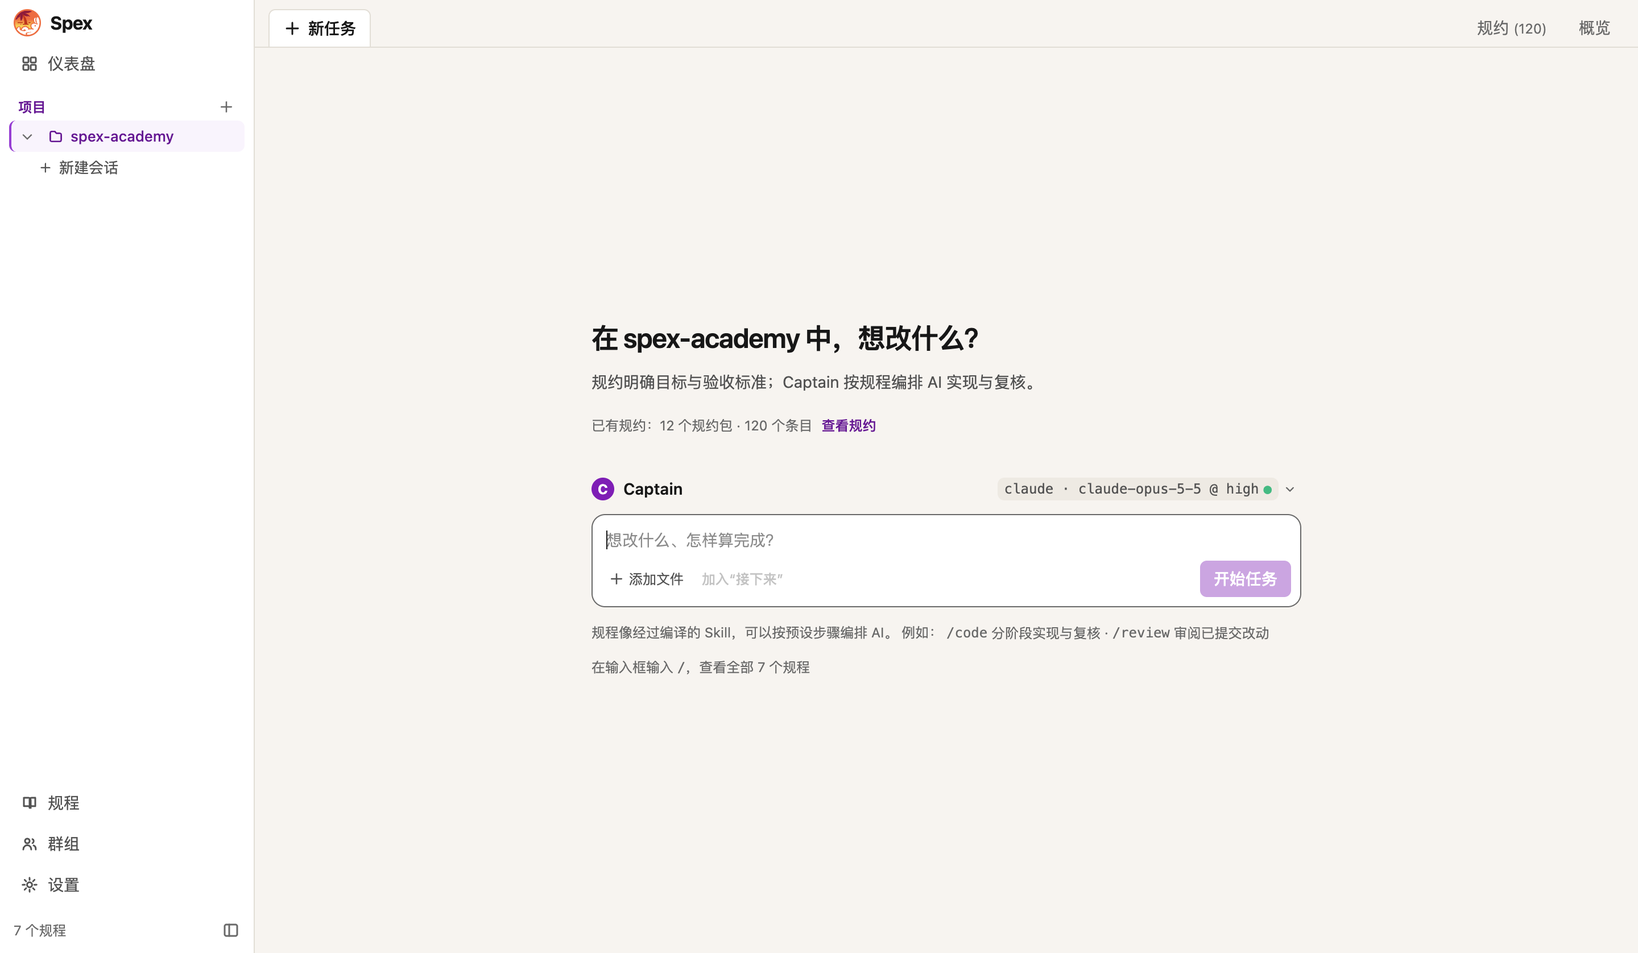
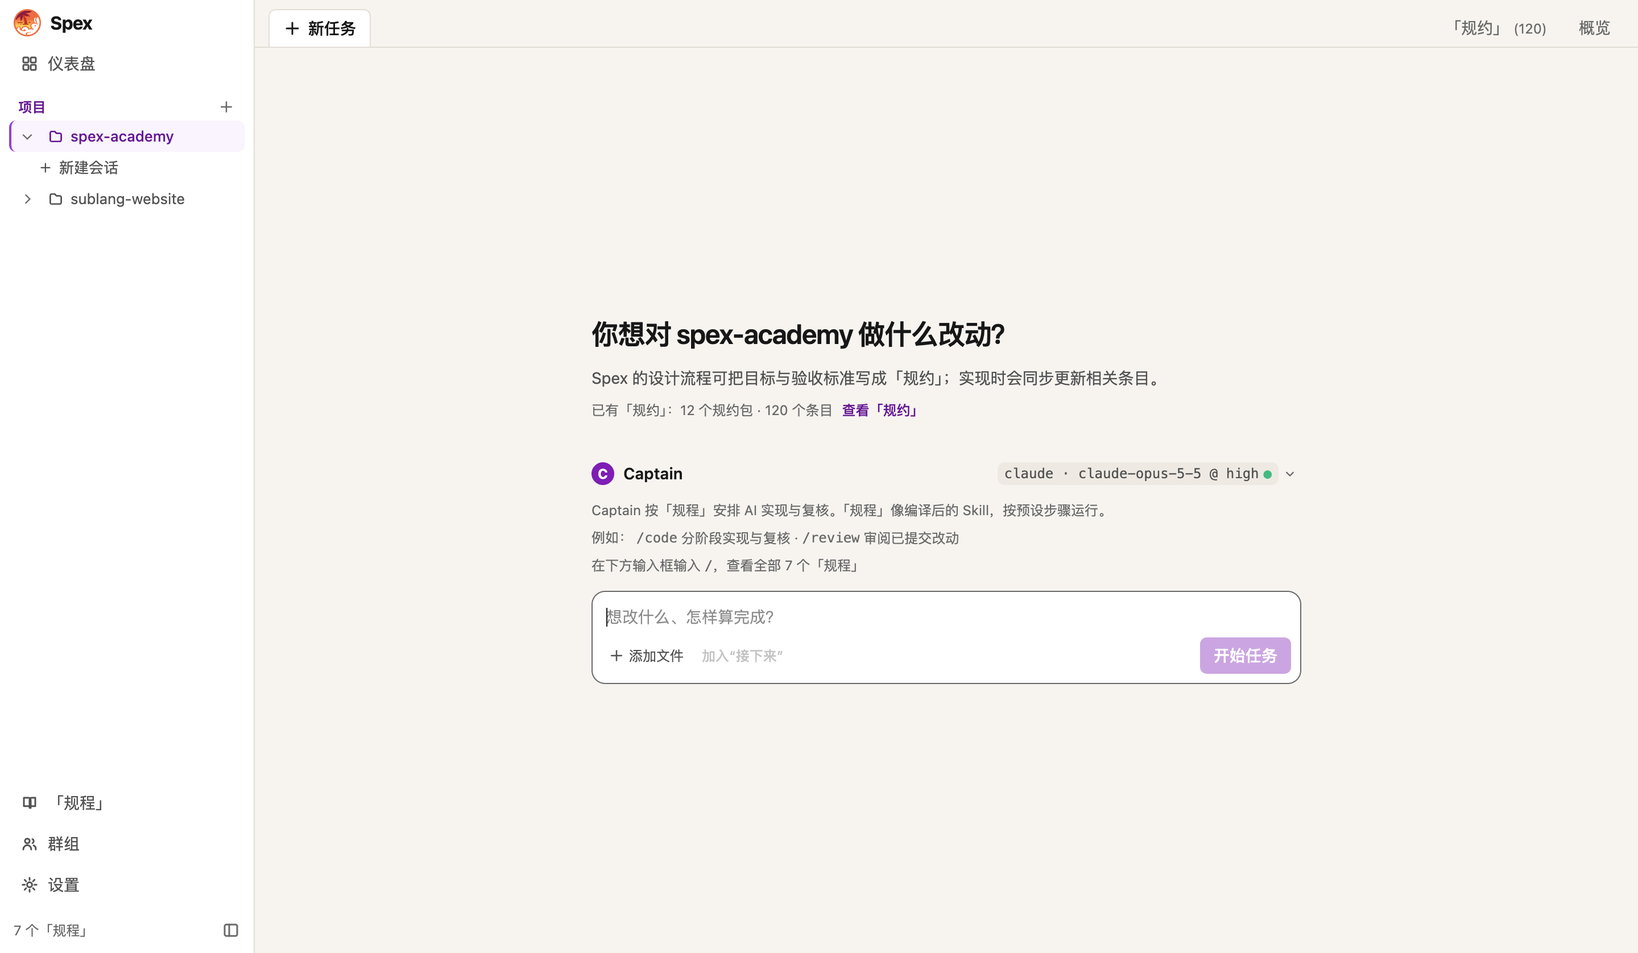
Clarify project start specs and playbook guidance

diff --git a/packages/ui/src/components/CaptainHome.tsx b/packages/ui/src/components/CaptainHome.tsx
@@ -283,7 +283,7 @@ export function CaptainHome(props: CaptainHomeProps) {
             <li className="relative pb-3 pl-5">
               <span aria-hidden="true" className="absolute -left-[5px] top-2 size-2 rounded-full bg-neutral-400 dark:bg-neutral-500" />
               <span className="font-semibold text-neutral-800 dark:text-neutral-100">{i18n._("Playbooks")}</span>
-              <span className="ml-3 text-neutral-600 dark:text-neutral-300">{i18n._("Compile natural-language playbooks into executable workflows")}</span>
+              <span className="ml-3 text-neutral-600 dark:text-neutral-300">{i18n._("Compile natural-language steps into executable workflows")}</span>
             </li>
             <li className="relative pl-5">
               <span aria-hidden="true" className="absolute -left-[5px] top-2 size-2 rounded-full bg-neutral-400 dark:bg-neutral-500" />
@@ -364,15 +364,15 @@ export function CaptainHome(props: CaptainHomeProps) {
         {props.hasProject ? (
           <div data-testid="project-task-start" className="w-full">
             <h1 className="text-2xl font-semibold leading-tight tracking-tight text-neutral-900 dark:text-neutral-100">
-              {i18n._("What would you change in {project}?", {
+              {i18n._("What would you like to change in {project}?", {
                 project: props.projectName ?? i18n._("your project"),
               })}
             </h1>
             <p className="mt-3 text-sm leading-6 text-neutral-600 dark:text-neutral-300">
-              {i18n._("Specs clarify goals and acceptance criteria; Captain uses playbooks to coordinate AI implementation and review.")}
+              {i18n._("Spex's design workflow can write goals and acceptance criteria into specs; implementation updates affected spec items.")}
             </p>
             {props.onOpenSpecs ? (
-              <div data-testid="project-spec-status" className="mt-4 flex flex-wrap items-center gap-x-2 gap-y-1 text-xs leading-5 text-neutral-500 dark:text-neutral-400">
+              <div data-testid="project-spec-status" className="mt-1.5 flex flex-wrap items-center gap-x-2 gap-y-1 text-xs leading-5 text-neutral-500 dark:text-neutral-400">
                 <span>
                   {specState === "ready" && specCounts
                     ? i18n._("Existing specs: {packages, plural, one {# package} other {# packages}} · {items, plural, one {# item} other {# items}}", { packages: specCounts.packages, items: specCounts.items })
@@ -565,9 +565,45 @@ export function CaptainHome(props: CaptainHomeProps) {
           </span>
         </div>
 
+        {props.hasProject ? (
+          <div className="text-xs leading-5 text-neutral-500 dark:text-neutral-400">
+            {!configBroken && playbooks.length > 0 ? (
+              <p>{i18n._("Captain uses playbooks to coordinate AI implementation and review. Playbooks are like compiled Skills that run through defined steps.")}</p>
+            ) : null}
+            {!configBroken && !props.next && previewPlaybooks.length > 0 ? (
+              <div data-testid="playbook-preview" className="mt-1">
+                <p>
+                  {i18n._("For example:")}{" "}
+                  {previewPlaybooks.map((playbook, index) => (
+                    <span key={playbook.id}>
+                      {index > 0 ? " · " : null}
+                      <code className="font-mono">/{playbook.command}</code>{" "}
+                      <span className="inline-block max-w-44 truncate align-bottom" title={playbookIntent(playbook.intent)}>{previewIntent(playbook)}</span>
+                    </span>
+                  ))}
+                </p>
+              </div>
+            ) : null}
+            <div className="mt-1 min-h-5">
+              {playbooks.length > 0 ? (
+                <span id="start-playbook-hint">
+                  <Rich
+                    text={i18n._("Type <0>/</0> in the task box below to see all {count} playbooks", { count: playbooks.length })}
+                    components={[<code key="slash" className="font-mono" />]}
+                  />
+                </span>
+              ) : (
+                <button type="button" onClick={() => props.onNavigate("Playbooks")} className="font-medium text-brand-700 hover:underline dark:text-brand-300">
+                  {i18n._("No playbooks available — open Playbooks")}
+                </button>
+              )}
+            </div>
+          </div>
+        ) : null}
+
         {props.hasProject ? <label htmlFor="start-composer" className="sr-only">{i18n._("Describe a project task")}</label> : null}
 
-        <div className="relative">
+        <div className={props.hasProject ? "relative mt-1" : "relative"}>
           {slash ? (
             <SlashMenuList
               items={slash}
@@ -714,37 +750,6 @@ export function CaptainHome(props: CaptainHomeProps) {
             }
           />
         </div>
-        {props.hasProject && !configBroken && !props.next && previewPlaybooks.length > 0 ? (
-          <div data-testid="playbook-preview" className="mt-1 text-xs leading-5 text-neutral-500 dark:text-neutral-400">
-            <p>
-              {i18n._("A playbook is like a Skill compiled into an executable workflow: it coordinates AI through predefined steps.")}{" "}
-              {i18n._("For example:")}{" "}
-              {previewPlaybooks.map((playbook, index) => (
-                <span key={playbook.id}>
-                  {index > 0 ? " · " : null}
-                  <code className="font-mono">/{playbook.command}</code>{" "}
-                  <span className="inline-block max-w-44 truncate align-bottom" title={playbookIntent(playbook.intent)}>{previewIntent(playbook)}</span>
-                </span>
-              ))}
-            </p>
-          </div>
-        ) : null}
-        {props.hasProject ? (
-          <div className="mt-1 min-h-5 text-xs text-neutral-500 dark:text-neutral-400">
-            {playbooks.length > 0 ? (
-              <span id="start-playbook-hint">
-                <Rich
-                  text={i18n._("Type <0>/</0> in the task box to see all {count} playbooks", { count: playbooks.length })}
-                  components={[<code key="slash" className="font-mono" />]}
-                />
-              </span>
-            ) : (
-              <button type="button" onClick={() => props.onNavigate("Playbooks")} className="font-medium text-brand-700 hover:underline dark:text-brand-300">
-                {i18n._("No playbooks available — open Playbooks")}
-              </button>
-            )}
-          </div>
-        ) : null}
       </div>
     </div>
   );

diff --git a/packages/ui/src/components/captain-home.test.tsx b/packages/ui/src/components/captain-home.test.tsx
@@ -144,7 +144,7 @@ function renderHome({
 describe("RUN-29: captain home structure and one-motion start", () => {
   test("project task framing, composer, and Captain role render", () => {
     renderHome();
-    expect(screen.getByText("What would you change in demo?")).toBeTruthy();
+    expect(screen.getByText("What would you like to change in demo?")).toBeTruthy();
     expect(screen.getByTestId("start-composer")).toBeTruthy();
     const chip = screen.getByTestId("agent-chip");
     expect(chip.textContent).toContain("claude · claude-opus-4-8 @ high");
@@ -182,7 +182,7 @@ describe("RUN-29: captain home structure and one-motion start", () => {
     expect(screen.getByText("Specs")).toBeTruthy();
     expect(screen.getByText("Define goals and acceptance criteria")).toBeTruthy();
     expect(screen.getByText("Playbooks")).toBeTruthy();
-    expect(screen.getByText("Compile natural-language playbooks into executable workflows")).toBeTruthy();
+    expect(screen.getByText("Compile natural-language steps into executable workflows")).toBeTruthy();
     expect(screen.getByText("Delivery")).toBeTruthy();
     expect(screen.getByText("Coordinate AI implementation and review, with traceable changes")).toBeTruthy();
     const primary = screen.getByTestId("home-add-project");
@@ -201,11 +201,12 @@ describe("RUN-29: captain home structure and one-motion start", () => {
 
   test("task scope and slash discovery sit outside the input", () => {
     renderHome();
-    expect(screen.getByText(/Specs clarify goals and acceptance criteria/)).toBeTruthy();
+    expect(screen.getByText(/design workflow can write goals and acceptance criteria into specs/)).toBeTruthy();
+    expect(screen.getByText(/Captain uses playbooks to coordinate AI implementation and review/)).toBeTruthy();
     const hint = document.getElementById("start-playbook-hint")!;
-    expect(hint.textContent).toBe("Type / in the task box to see all 2 playbooks");
+    expect(hint.textContent).toBe("Type / in the task box below to see all 2 playbooks");
     expect(hint.querySelector("code")?.textContent).toBe("/");
-    expect(hint.compareDocumentPosition(screen.getByTestId("composer-box")) & Node.DOCUMENT_POSITION_PRECEDING).toBeTruthy();
+    expect(hint.compareDocumentPosition(screen.getByTestId("composer-box")) & Node.DOCUMENT_POSITION_FOLLOWING).toBeTruthy();
     const field = screen.getByLabelText("Describe a project task");
     expect(field).toBe(screen.getByTestId("start-composer"));
     expect(field.getAttribute("aria-describedby")).toBe("start-playbook-hint");
@@ -230,14 +231,14 @@ describe("RUN-29: captain home structure and one-motion start", () => {
       { ...PLAYBOOKS[0], intent: "implement a coding intent in reviewed, one-commit phases, using an intent record when needed" },
     ] });
     const preview = screen.getByTestId("playbook-preview");
-    expect(preview.textContent).toContain("like a Skill compiled into an executable workflow");
+    expect(screen.getByText(/Playbooks are like compiled Skills that run through defined steps/)).toBeTruthy();
     expect(preview.textContent).toContain("/code");
     expect(preview.textContent).toContain("/review");
     expect(preview.textContent).not.toContain("/inspect");
     expect(preview.querySelectorAll("p")).toHaveLength(1);
     expect(preview.querySelectorAll("button")).toHaveLength(0);
     const hint = document.getElementById("start-playbook-hint")!;
-    expect(hint.textContent).toBe("Type / in the task box to see all 3 playbooks");
+    expect(hint.textContent).toBe("Type / in the task box below to see all 3 playbooks");
     expect(preview.compareDocumentPosition(hint) & Node.DOCUMENT_POSITION_FOLLOWING).toBeTruthy();
     expect(preview.textContent).toContain("implement in reviewed phases");
     expect(preview.textContent).toContain("review committed changes");

diff --git a/packages/ui/src/components/builtin-intents.test.tsx b/packages/ui/src/components/builtin-intents.test.tsx
@@ -103,7 +103,7 @@ describe("localization-4: slash menu discovery", () => {
 
     expect(screen.queryByTestId("quick-start")).toBeNull();
     const hint = document.getElementById("start-playbook-hint")!;
-    expect(hint.textContent).toBe(`在输入框输入 /，查看全部 ${summaries().length} 个规程`);
+    expect(hint.textContent).toBe(`在下方输入框输入 /，查看全部 ${summaries().length} 个「规程」`);
     expect(hint.querySelector("code")?.textContent).toBe("/");
 
     // The slash menu offers every playbook, each intent its hint.

diff --git a/packages/ui/src/localization.test.tsx b/packages/ui/src/localization.test.tsx
@@ -360,7 +360,7 @@ describe("localization-4: the rail reads the resolved language", () => {
     speak("zh");
     render(<Root />);
     const labels = railLabels();
-    for (const label of ["仪表盘", "项目", "规程", "群组", "设置"]) {
+    for (const label of ["仪表盘", "项目", "「规程」", "群组", "设置"]) {
       expect(labels).toContain(label);
     }
     for (const label of ["Dashboard", "Playbooks", "Groups", "Settings"]) {

diff --git a/specs/decisions/138-project-start-explains-the-task-and-slash-discovery.md b/specs/decisions/138-project-start-explains-the-task-and-slash-discovery.md
@@ -12,6 +12,7 @@ Amended (2026-10-22) after reviewing the result: ask plainly what the owner want
 Amended (2026-10-22) after the owner's copy review: explain playbooks through the familiar Skill analogy while distinguishing their compiled execution flow; prefer configured `/code` and `/review` examples, keep the definition and examples in one paragraph, and make the slash hint explicitly name the task field with the same type treatment and subdued color as the examples.
 Amended (2026-10-22) after the owner's specs-first review: the project task guidance names specs as the place for goals and acceptance criteria, and a compact per-project status links to the existing Specs tab; the pinned tab shows the count of spec packages when known.
 Amended (2026-10-22) after the owner's tab and copy review: the guidance is concise enough to avoid a forced balanced break, the new-task tab has a visible name alongside its plus icon, and the pinned Specs tab counts spec items rather than package files.
+Amended (2026-10-22) after the owner's copy and grouping review: use a second-person task question; explain that design can write specs and implementation updates affected items without implying every task generates specs; group Captain, the playbook explanation, configured examples, and slash discovery immediately before the composer; tighten gaps inside the specs and playbook groups, and quote the Chinese terms 「规约」 and 「规程」 in P0-0 guidance and surface labels.
 Amends [DR-007](007-conversational-session-start.md) in the project home before a session starts, [DR-019](019-inline-agent-configuration.md) and [DR-038](038-history-is-done-work.md) in that home's Captain identity, and [DR-041](041-chrome-that-fits.md) in that home's composer hint.
 
 ## Context
@@ -22,12 +23,12 @@ Amends [DR-007](007-conversational-session-start.md) in the project home before 
 
 ## Decision
 
-- Before a session starts, the project home leads with a project-specific task heading and concise guidance: specs clarify goals and acceptance criteria, while Captain uses playbooks to coordinate AI implementation and review. The heading and task field invite the owner to describe the change and how to judge completion. The guidance neither promises that submitting a task automatically creates specs nor claims unrestricted agent capabilities; it aligns with the full width of the composer and does not force a balanced line break.
-- Below the guidance, a quiet project-specific status shows the known count of spec packages and items with a link to the pinned Specs tab. A project without `specs/`, an empty packages collection, a legacy tree, and a read failure each get accurate distinct wording and a link to the relevant Specs guidance; loading never masquerades as zero. This status remains secondary to the task composer.
+- Before a session starts, the project home asks in the second person what the owner would change in the named project. Guidance explains that Spex's design workflow can write goals and acceptance criteria into specs and implementation updates affected spec items; it neither promises that submitting a task automatically creates specs nor claims unrestricted agent capabilities. The task field asks how to judge completion. The guidance aligns with the full width of the composer and does not force a balanced line break.
+- Immediately below the guidance, a quiet project-specific status shows the known count of spec packages and items with a link to the pinned Specs tab. A project without `specs/`, an empty packages collection, a legacy tree, and a read failure each get accurate distinct wording and a link to the relevant Specs guidance; loading never masquerades as zero. This status remains secondary to the task composer.
 - The new-task tab retains its plus icon but names the destination visibly, so returning from Specs or Overview to the task composer is clear. It does not create or submit a task until the owner uses the composer.
 - The pinned Specs tab stays in its current place and displays a plain spec-item count when the current project's tree is known and contains items; the count is spoken with its unit, is not an attention badge, and is omitted while loading, empty, legacy, or unreadable. The tab remains available throughout the project workspace.
-- Immediately above the composer, a compact Captain identity uses the same avatar and name as the running Captain pane. Its current adapter, model, effort, fast-mode mark, and readiness appear in one clickable chip that opens the in-place editor; a missing Captain reads as unconfigured. Blocking readiness remains visible at the composer.
-- The home separates the task introduction from the Captain identity and composer with a larger interval than the gaps inside either group. The heading asks in plain language what to change in the named project; the guidance asks for the goal and how to know it is done. Below the composer, a compact, borderless, low-emphasis paragraph explains a playbook as akin to a Skill compiled into an executable flow and previews at most two actually configured examples, preferring `/code` and `/review`. Its final line, at the same muted contrast, explicitly teaches the single discovery gesture: type `/` in the task field to see all configured playbooks and states their live count. Slash commands and the hint's `/` share code typography. The preview neither preselects a command nor offers a second route to run one. Slash selection remains optional, and an ordinary task can be sent without a command. The preview yields to the primary task when an Up next card is present.
+- Above the playbook guidance and composer, a compact Captain identity uses the same avatar and name as the running Captain pane. Its current adapter, model, effort, fast-mode mark, and readiness appear in one clickable chip that opens the in-place editor; a missing Captain reads as unconfigured. Blocking readiness remains visible at the composer.
+- The home separates the specs introduction from the Captain/composer group with a larger interval than gaps inside either group. When playbooks are available, compact, borderless, low-emphasis copy between the Captain identity and composer explains that Captain uses playbooks to coordinate AI implementation and review, and that a playbook is akin to a compiled Skill run through defined steps. When no Up next card has priority, it previews at most two actually configured examples, preferring `/code` and `/review`. The final line, close to both the explanation and composer, teaches the single discovery gesture: type `/` in the task field below to see all configured playbooks, with their live count. Slash commands and the hint's `/` share code typography. The preview neither preselects a command nor offers a second route to run one. Slash selection remains optional, and an ordinary task can be sent without a command. Chinese P0-0 guidance and surface labels enclose the product terms 「规约」 and 「规程」 in corner quotes.
 - The home composer's "Add to Up next" keeps its queued-intent capture and inline acknowledgment, but reads visually as a secondary text action beside the primary Start task control.
 - The project's task field has an accessible label but no separate visible label. The resting slash/Enter caption is absent inside the empty composer; submission keys remain in the primary control's tooltip, while staged-intent and acknowledgment captions still appear when needed.
 - Once a task starts, the existing Captain conversation and runtime routing behavior take over; this decision changes no runtime routing or refusal contract.

diff --git a/specs/packages/run-view.md b/specs/packages/run-view.md
@@ -295,11 +295,11 @@ The app shell shall fill the window at every size, giving the surface it shows a
 
 Where a project is registered and no session tab is active, when the Projects surface is shown, the run view shall present a project task start with one composer and secondary Captain settings ([DR-007](../decisions/007-conversational-session-start.md), [DR-011](../decisions/011-project-workspace.md), [DR-138](../decisions/138-project-start-explains-the-task-and-slash-discovery.md)):
 
-- the heading and task field ask plainly what to change in the named project and how to know it is done; concise guidance aligned to the composer's width explains that specs clarify goals and acceptance criteria while Captain uses playbooks to coordinate AI implementation and review, without a forced balanced line break, presenting an unrestricted chat, or promising task submission automatically creates specs;
-- below the guidance, a compact per-project specs status links to the pinned Specs tab [[run-view-58](#run-view-58)]: when known it reports package and item counts, while a missing `specs/`, an empty package collection, a legacy tree, and a read failure receive distinct guidance; loading shall not display a false zero;
-- immediately above the composer, Captain wears the same avatar and name as the running Captain pane, beside a clickable chip showing its current adapter, model, effort, fast-mode mark, and readiness; that chip opens the in-place editor [[run-view-32](#run-view-32)], while blocking readiness remains at the composer;
-- the sole task field has an accessible label without a visible label, and a stable hint below the composer says to type `/` in that field to inspect all configured playbooks, naming their live count [[run-view-27](#run-view-27)]; its idle inside-caption is absent while staged-intent and acknowledgment captions still appear [[run-view-106](#run-view-106)];
-- the introduction and the Captain/composer group have more breathing room than the gaps within each group; a compact, borderless, low-emphasis footer directly below the composer explains a playbook through a Skill analogy that distinguishes its compiled execution flow and previews at most two configured examples in the same paragraph, preferring `/code` and `/review`; a final slash hint uses the same muted color and command typography, and the preview disappears when an Up next card takes priority [[run-view-27](#run-view-27)];
+- the heading asks in the second person what to change in the named project, and the task field asks how to know it is done; concise guidance aligned to the composer's width explains that Spex's design workflow can write goals and acceptance criteria into specs and implementation updates affected spec items, without a forced balanced line break, presenting an unrestricted chat, or promising task submission automatically creates specs;
+- immediately below the guidance, a compact per-project specs status links to the pinned Specs tab [[run-view-58](#run-view-58)]: when known it reports package and item counts, while a missing `specs/`, an empty package collection, a legacy tree, and a read failure receive distinct guidance; loading shall not display a false zero;
+- above the playbook guidance and composer, Captain wears the same avatar and name as the running Captain pane, beside a clickable chip showing its current adapter, model, effort, fast-mode mark, and readiness; that chip opens the in-place editor [[run-view-32](#run-view-32)], while blocking readiness remains at the composer;
+- the sole task field has an accessible label without a visible label, and a stable hint immediately above the composer says to type `/` in that field to inspect all configured playbooks, naming their live count [[run-view-27](#run-view-27)]; its idle inside-caption is absent while staged-intent and acknowledgment captions still appear [[run-view-106](#run-view-106)];
+- the specs introduction and the Captain/composer group have more breathing room than the gaps within each group; between Captain's identity and the composer, compact, borderless, low-emphasis copy connects Captain's coordination to playbooks, explains their compiled-Skill execution flow, and previews at most two configured examples, preferring `/code` and `/review`; the final slash hint sits close to both that copy and the composer, in the same muted color and command typography; the preview disappears when an Up next card takes priority [[run-view-27](#run-view-27)]; Chinese P0-0 guidance and surface labels enclose the product terms 「规约」 and 「规程」 in corner quotes;
 - with no project current, the greeting directs the reader to pick one where projects exist;
 - Project choice lives in the sidebar and palette, not in the composer row.
 
